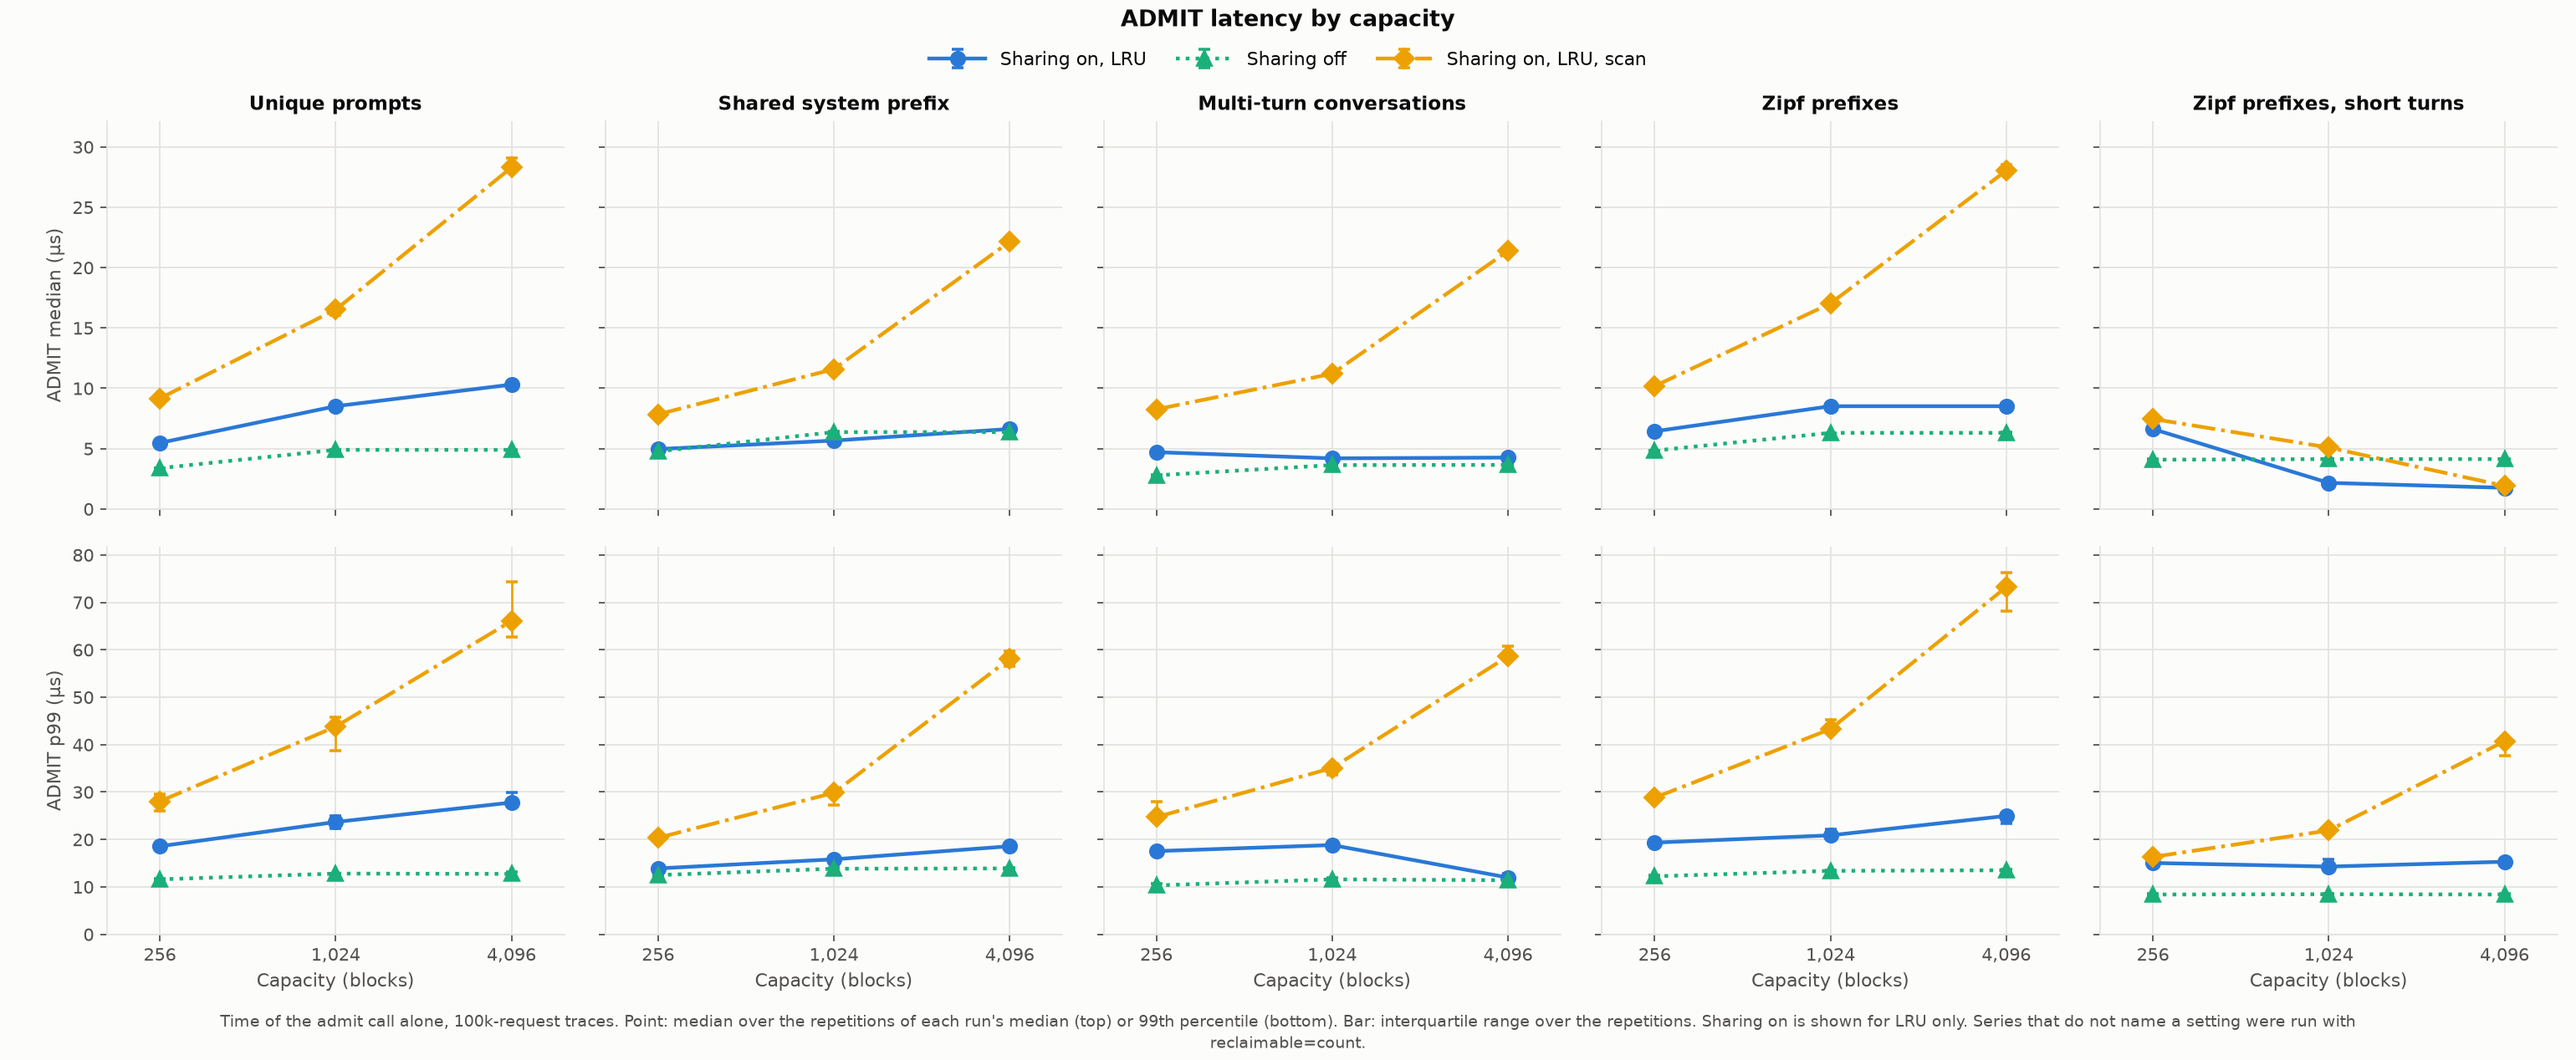
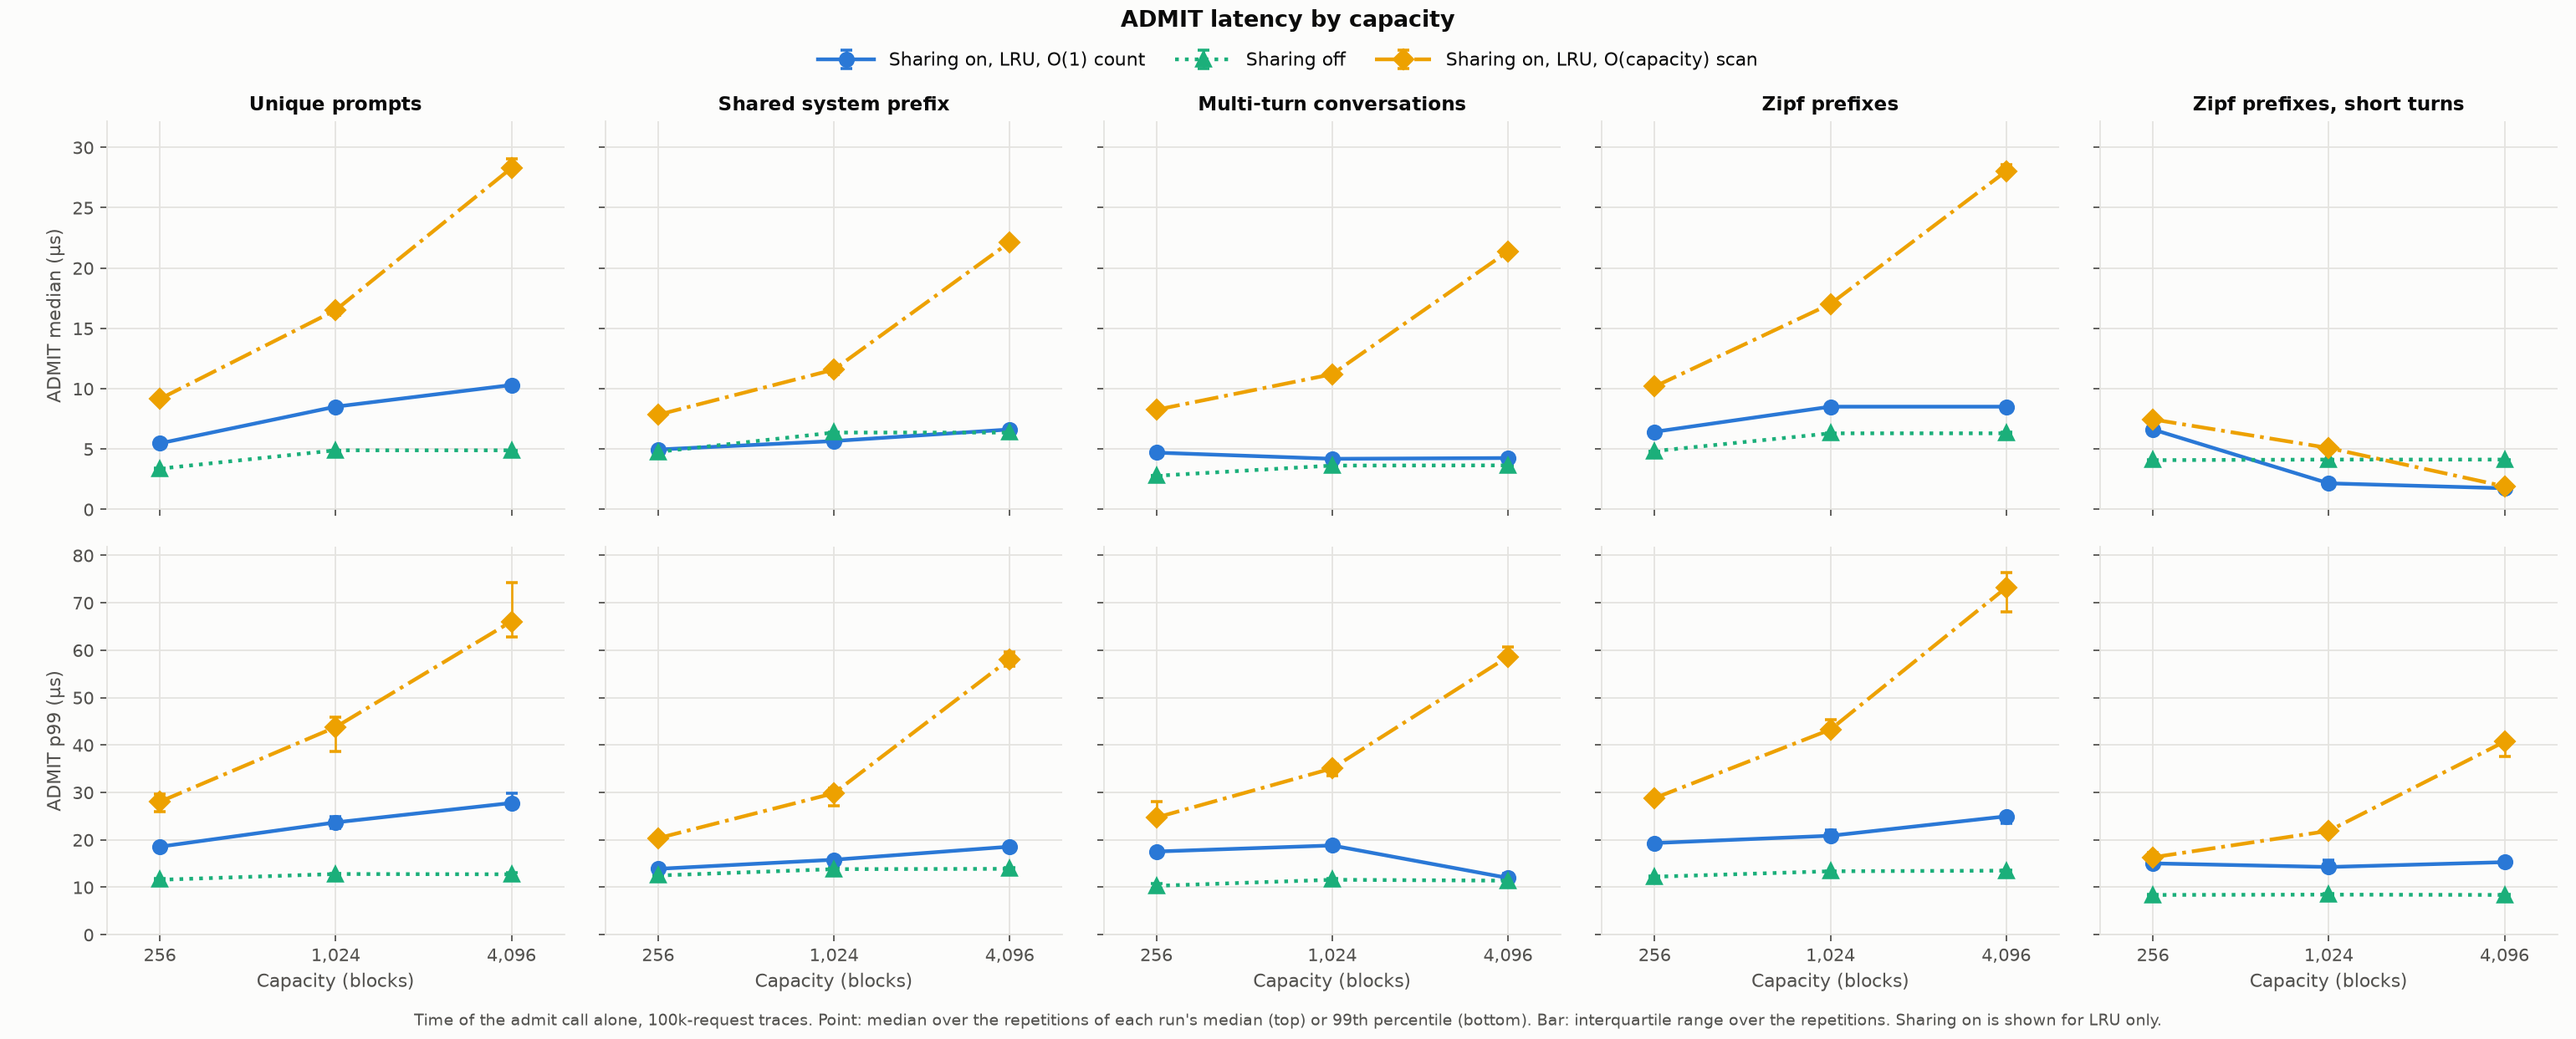
plot.py: label the ADMIT latency series "O(1) count" and "O(capacity) scan"
With --compare the pooled sharing-on series is named after its reclaimable
setting. Both admit_latency_vs_capacity.png figures redrawn; the others are
unchanged.

diff --git a/scripts/plot.py b/scripts/plot.py
@@ -4,7 +4,7 @@
   python3 scripts/plot.py              # appendix figures -> results/figures/
   python3 scripts/plot.py --report     # report figures   -> results/figures/report/
   python3 scripts/plot.py --csv a.csv b.csv --out some/dir --size 10k --capacity 1024
-  python3 scripts/plot.py --compare "Sharing on, LRU, scan=results/raw/scan_sweep.csv"
+  python3 scripts/plot.py --compare "Sharing on, LRU, O(capacity) scan=results/raw/scan_sweep.csv"
 
 Rows from all --csv files are pooled (default: results/raw/sweep*.csv).
 
@@ -39,7 +39,8 @@ range.
 
 --compare LABEL=FILE adds another sweep of the same traces, made with a different
 setting or build (for example reclaimable=scan), to admit_latency_vs_capacity.png
-as one more series (its sharing-on LRU rows). Its rows are kept apart from the
+as one more series (its sharing-on LRU rows); the pooled sharing-on series is then
+labelled with its own reclaimable setting. Its rows are kept apart from the
 pooled ones, and the file is left out of the default results/raw/sweep*.csv pool.
 Give the option once per sweep.
 
@@ -309,16 +310,18 @@ def admit_latency_figure(plt, layout, groups, compare, capacities, size, path):
     """ADMIT median and p99 by capacity: sharing on (LRU) against off, plus later builds."""
     from matplotlib.ticker import FuncFormatter
     modes = layout.modes({key[0] for key in groups if key[1] == size})
-    drawn = [(groups, ON_LRU), (groups, OFF)]
+    # Next to another sweep, say how the pooled one counted reclaimable blocks.
+    kinds = {row.get("reclaimable") for rows in groups.values() for row in rows}
+    names = {"count": "O(1) count", "scan": "O(capacity) scan"}
+    on_lru = ON_LRU
+    if compare and len(kinds) == 1 and kinds <= set(names):
+        on_lru = (ON_LRU[0], "%s, %s" % (ON_LRU[1], names[kinds.pop()])) + ON_LRU[2:]
+    drawn = [(groups, on_lru), (groups, OFF)]
     for (label, other), look in zip(compare, COMPARE_STYLES):
         drawn.append((other, (("on", "lru"), label) + look))
     note = ("Time of the admit call alone, %s-request traces. Point: median over the "
             "repetitions of each run's median (top) or 99th percentile (bottom). Bar: "
             "interquartile range over the repetitions. Sharing on is shown for LRU only." % size)
-    kinds = {row.get("reclaimable") for rows in groups.values() for row in rows}
-    if compare and len(kinds) == 1 and None not in kinds:
-        note += (" Series that do not name a setting were run with reclaimable=%s."
-                 % kinds.pop())
     fig = Figure(plt, layout, 2, len(modes), note, len(drawn), "row")
     positions = list(range(len(capacities)))
     rows = [("admit_median_ns", "ADMIT median (µs)"), ("admit_p99_ns", "ADMIT p99 (µs)")]
@@ -474,7 +477,7 @@ def main():
                              "panels only")
     parser.add_argument("--compare", action="append", default=[], metavar="LABEL=FILE",
                         help="overlay a later sweep in admit_latency_vs_capacity.png, e.g. "
-                             "\"Sharing on, LRU, scan=results/raw/scan_sweep.csv\"")
+                             "\"Sharing on, LRU, O(capacity) scan=results/raw/scan_sweep.csv\"")
     parser.add_argument("--fragmentation", default="results/raw/fragmentation.csv",
                         metavar="FILE",
                         help="sweep made with --sample-every, for "

diff --git a/docs/experiment_notes.md b/docs/experiment_notes.md
@@ -611,9 +611,9 @@ bash scripts/run_experiments.sh --reps 1 --sample-every 64 \
 # 3. Figures. Needs matplotlib.
 python3 -m pip install matplotlib      # or: sudo apt install python3-matplotlib
 python3 scripts/plot.py \
-    --compare "Sharing on, LRU, scan=results/raw/scan_sweep.csv"   # -> results/figures/
+    --compare "Sharing on, LRU, O(capacity) scan=results/raw/scan_sweep.csv"   # -> results/figures/
 python3 scripts/plot.py --report \
-    --compare "Sharing on, LRU, scan=results/raw/scan_sweep.csv"   # -> results/figures/report/
+    --compare "Sharing on, LRU, O(capacity) scan=results/raw/scan_sweep.csv"   # -> results/figures/report/
 ```
 
 `plot.py` pools every `results/raw/sweep*.csv`, so the scan sweep and the sampled run
